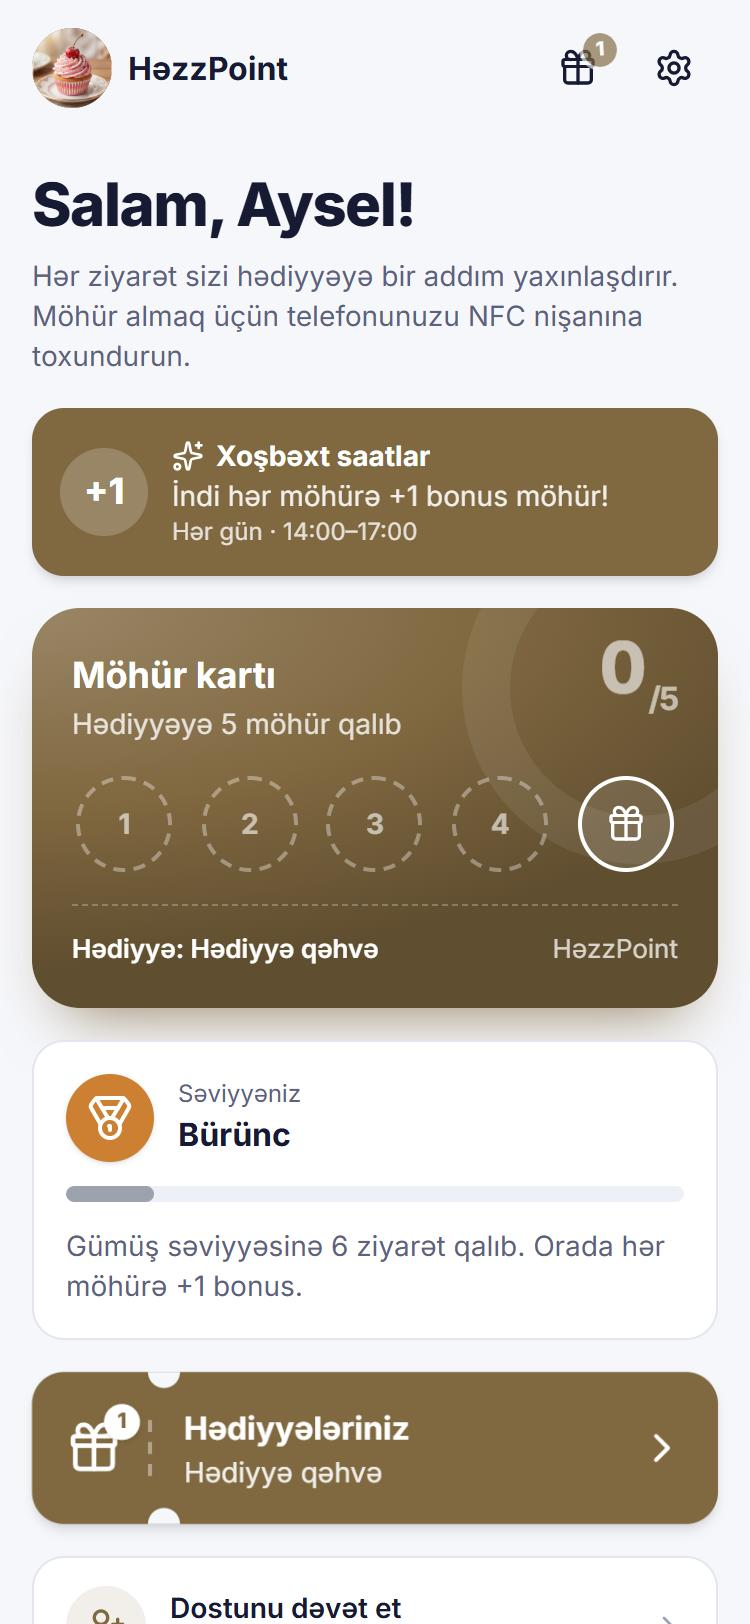
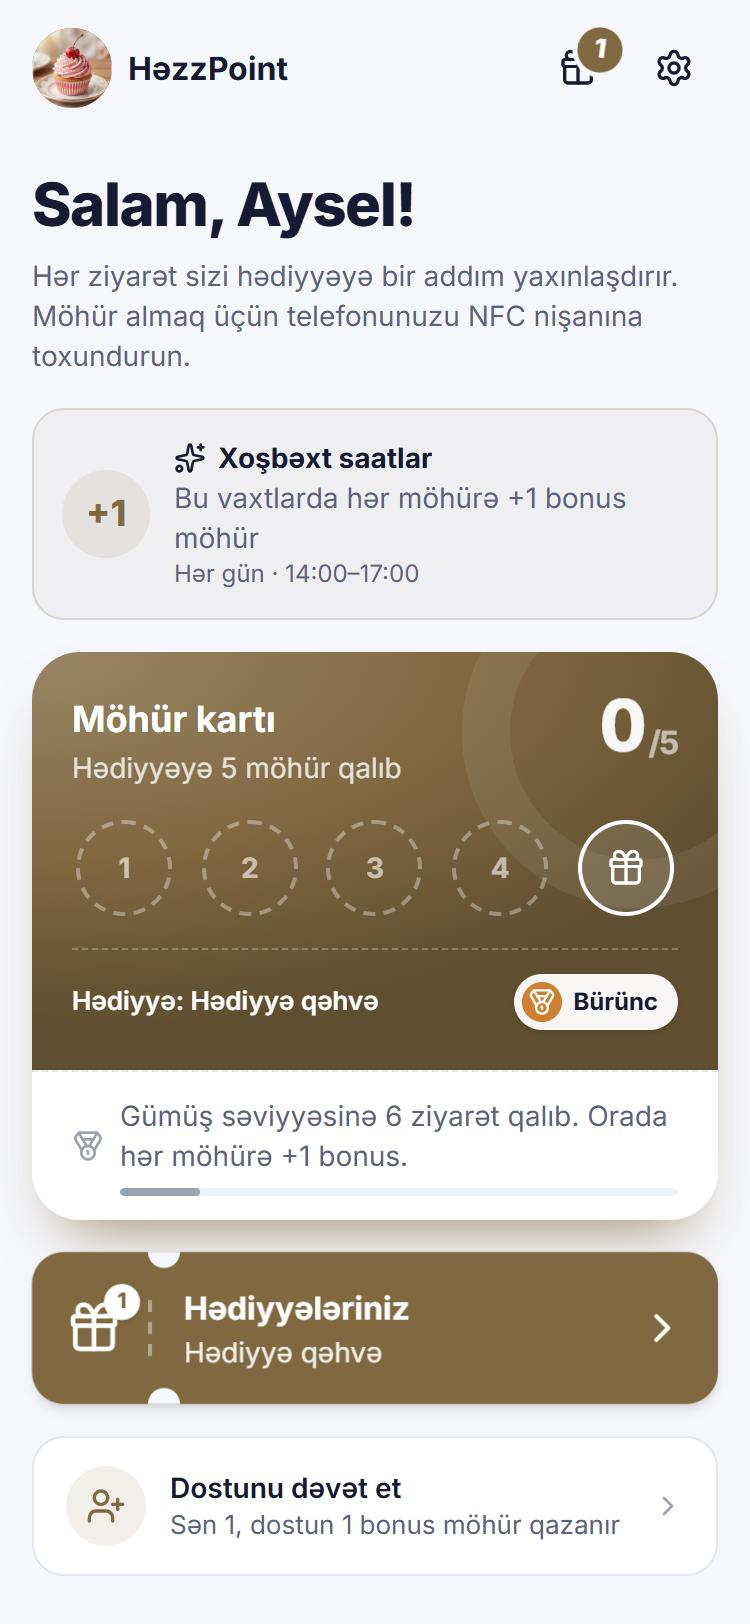
feat(customer): show the tier on the stamp card instead of a separate block
The tier badge now sits on the card's bottom line in the tier colour (in place
of the company name), and progress to the next tier is a note in the card's
strip with a thin progress bar. The standalone tier block is removed.

diff --git a/fe-tapstamp/src/customer/components/TierCard.tsx b/fe-tapstamp/src/customer/components/TierCard.tsx
@@ -1,71 +1,67 @@
-import { useQuery } from '@tanstack/react-query';
 import { Medal } from 'lucide-react';
 import { useTranslation } from 'react-i18next';
 
 import { resolveText } from '@/shared/i18n/localized';
 import { currentLanguage } from '@/shared/i18n/setup';
 
-import { meApi } from '../api/customerApi';
-
-const TIER_KEY = ['my-tier'] as const;
+import { useMyTier } from '../lib/useMyTier';
+import { StampCardNote } from './StampCard';
 
 /**
- * Müştərinin səviyyəsi: rəngli nişan, imtiyaz və növbəti səviyyəyə irəliləyiş zolağı. Şirkətdə səviyyə yoxdursa
- * görünmür.
+ * Kartın üzərindəki səviyyə nişanı (plastik kartdakı "Gold" yazısı kimi): səviyyənin rəngində medal və ad, imtiyaz
+ * varsa yanında. Səviyyə hələ yoxdursa görünmür.
  */
-export function TierCard() {
+export function TierChip() {
   const { t } = useTranslation('profile');
-  const lang = currentLanguage();
-  const tier = useQuery({ queryKey: TIER_KEY, queryFn: meApi.tier });
-  const data = tier.data;
-  if (!data?.enabled) {
+  const tier = useMyTier();
+  const current = tier?.current;
+  if (!current) {
     return null;
   }
-  const current = data.current;
-  const next = data.next;
-  const visits = data.visits ?? 0;
-  const color = current?.color ?? next?.color ?? 'var(--primary)';
-  // Zolaq cari səviyyənin həddindən növbətinin həddinə qədər doldurulur
-  const from = current?.minVisits ?? 0;
-  const to = next?.minVisits ?? from;
-  const progress = next ? Math.min(1, Math.max(0, (visits - from) / Math.max(1, to - from))) : 1;
   return (
-    <section className="flex flex-col gap-3 rounded-2xl border border-border bg-card p-4">
-      <div className="flex items-center gap-3">
-        <span
-          className="grid size-11 shrink-0 place-items-center rounded-full text-white shadow-sm"
-          style={{ background: current ? color : 'var(--muted-foreground)' }}
-        >
-          <Medal className="size-6" aria-hidden="true" />
-        </span>
-        <span className="min-w-0 flex-1">
-          <span className="block text-xs text-muted-foreground">{t('tier.label')}</span>
-          <span className="block truncate text-base font-bold">
-            {current ? resolveText(current.name, lang) : t('tier.none')}
-          </span>
-        </span>
-        {current?.bonusStamps ? (
-          <span className="shrink-0 rounded-full px-2.5 py-1 text-xs font-bold text-white" style={{ background: color }}>
-            {t('tier.perk', { count: current.bonusStamps })}
-          </span>
-        ) : null}
-      </div>
-      <div
-        className="h-2 overflow-hidden rounded-full bg-muted"
-        role="progressbar"
-        aria-valuemin={0}
-        aria-valuemax={100}
-        aria-valuenow={Math.round(progress * 100)}
-        aria-label={t('tier.progress')}
-      >
-        <span className="block h-full rounded-full transition-[width]" style={{ width: `${progress * 100}%`, background: next?.color ?? color }} />
-      </div>
-      <p className="text-sm text-muted-foreground">
-        {next
-          ? t('tier.toNext', { count: data.visitsToNext ?? 0, name: resolveText(next.name, lang) })
-          : t('tier.top')}
-        {next?.bonusStamps ? ` ${t('tier.nextPerk', { count: next.bonusStamps })}` : ''}
-      </p>
-    </section>
+    <span
+      className="inline-flex max-w-full shrink-0 items-center gap-1.5 rounded-full bg-white/95 py-1 pr-2.5 pl-1 text-xs font-bold text-foreground shadow-sm"
+      aria-label={`${t('tier.label')}: ${resolveText(current.name, currentLanguage())}`}
+    >
+      <span className="grid size-5 shrink-0 place-items-center rounded-full text-white" style={{ background: current.color }}>
+        <Medal className="size-3.5" aria-hidden="true" />
+      </span>
+      <span className="truncate">{resolveText(current.name, currentLanguage())}</span>
+      {current.bonusStamps ? <span className="shrink-0 opacity-60">{t('tier.perk', { count: current.bonusStamps })}</span> : null}
+    </span>
   );
 }
+
+/** Kartın alt zolağında: növbəti səviyyəyə qalan ziyarətlər və nazik irəliləyiş xətti. */
+export function TierNote() {
+  const { t } = useTranslation('profile');
+  const tier = useMyTier();
+  if (!tier) {
+    return null;
+  }
+  const { next, visitsToNext, progress } = tier;
+  const color = next?.color ?? tier.current?.color ?? 'var(--primary)';
+  return (
+    <StampCardNote icon={<Medal aria-hidden="true" style={{ color }} />}>
+      <span className="min-w-0 flex-1">
+      <span className="block">
+        {next ? t('tier.toNext', { count: visitsToNext, name: resolveText(next.name, currentLanguage()) }) : t('tier.top')}
+        {next?.bonusStamps ? ` ${t('tier.nextPerk', { count: next.bonusStamps })}` : ''}
+      </span>
+      {next ? (
+        <span
+          className="mt-1.5 block h-1 overflow-hidden rounded-full bg-muted"
+          role="progressbar"
+          aria-valuemin={0}
+          aria-valuemax={100}
+          aria-valuenow={Math.round(progress * 100)}
+          aria-label={t('tier.progress')}
+        >
+          <span className="block h-full rounded-full" style={{ width: `${progress * 100}%`, background: color }} />
+        </span>
+      ) : null}
+      </span>
+    </StampCardNote>
+  );
+}
+

diff --git a/fe-tapstamp/src/customer/pages/HomePage.tsx b/fe-tapstamp/src/customer/pages/HomePage.tsx
@@ -14,7 +14,8 @@ import { useJustSignedIn } from '../auth/justSignedIn';
 import { BonusRulesBanner } from '../components/BonusRulesBanner';
 import { InviteFriendRow } from '../components/InviteFriendCard';
 import { StampCard, StampCardNote } from '../components/StampCard';
-import { TierCard } from '../components/TierCard';
+import { TierChip, TierNote } from '../components/TierCard';
+import { useMyTier } from '../lib/useMyTier';
 import { useSecondsUntil } from '../lib/useSecondsUntil';
 import { InstallRow } from '../pwa/InstallCard';
 import { NotificationsRow } from '../pwa/NotificationsCard';
@@ -44,6 +45,7 @@ function Profile({ me }: { me: Me }) {
   const lang = currentLanguage();
   const card = me.card;
   const rewards = me.availableRewards ?? [];
+  const tier = useMyTier();
   return (
     <>
       <section className="pt-2">
@@ -60,6 +62,7 @@ function Profile({ me }: { me: Me }) {
           pending={card.pendingStamps ?? 0}
           showReturnHint={justSignedIn}
           rewardName={resolveText(card.rewardName, lang)}
+          badge={tier?.current ? <TierChip /> : undefined}
           footer={
             <>
               {card.pendingStamps ? (
@@ -68,11 +71,11 @@ function Profile({ me }: { me: Me }) {
                 </StampCardNote>
               ) : null}
               <NextStamp at={card.nextStampAt} />
+              <TierNote />
             </>
           }
         />
       ) : null}
-      <TierCard />
       {rewards.length > 0 ? (
         // Bilet formalı blok: solda hədiyyə ikonu, qırıq xətt və iki yarımdairə kəsik, sağda hazır hədiyyələr
         <Link

diff --git a/fe-tapstamp/src/customer/components/StampCard.tsx b/fe-tapstamp/src/customer/components/StampCard.tsx
@@ -23,6 +23,8 @@ interface StampCardProps {
   completed?: boolean;
   /** Kartın alt zolaqları (geri sayım, təsdiq gözləyən möhürlər). */
   footer?: ReactNode;
+  /** Kartın aşağı xəttində, şirkət adının yerində (məs. səviyyə nişanı). */
+  badge?: ReactNode;
 }
 
 /**
@@ -39,6 +41,7 @@ export function StampCard({
   completed,
   showReturnHint = false,
   footer,
+  badge,
 }: StampCardProps) {
   const { t } = useTranslation('profile');
   const shown = completed ? stampsRequired : Math.min(current, stampsRequired);
@@ -97,10 +100,10 @@ export function StampCard({
             );
           })}
         </ol>
-        {rewardName || companyName ? (
+        {rewardName || companyName || badge ? (
           <p className="relative mt-4 flex items-center justify-between gap-3 border-t border-dashed border-white/25 pt-3 text-[13px]">
             <span className="min-w-0 font-semibold">{rewardName ? t('card.reward', { name: rewardName }) : null}</span>
-            <span className="shrink-0 truncate opacity-75">{companyName}</span>
+            {badge ?? <span className="shrink-0 truncate opacity-75">{companyName}</span>}
           </p>
         ) : null}
       </div>

diff --git a/fe-tapstamp/src/customer/lib/useMyTier.ts b/fe-tapstamp/src/customer/lib/useMyTier.ts
@@ -1,0 +1,20 @@
+import { useQuery } from '@tanstack/react-query';
+
+import { meApi } from '../api/customerApi';
+
+/** Müştərinin səviyyəsi; şirkətdə səviyyə yoxdursa və ya söndürülübsə {@code undefined}. */
+export function useMyTier() {
+  const tier = useQuery({ queryKey: ['my-tier'], queryFn: meApi.tier });
+  const data = tier.data;
+  if (!data?.enabled) {
+    return undefined;
+  }
+  const current = data.current;
+  const next = data.next;
+  const visits = data.visits ?? 0;
+  // Cari səviyyənin həddindən növbətinin həddinə qədər irəliləyiş (0–1)
+  const from = current?.minVisits ?? 0;
+  const to = next?.minVisits ?? from;
+  const progress = next ? Math.min(1, Math.max(0, (visits - from) / Math.max(1, to - from))) : 1;
+  return { current, next, visitsToNext: data.visitsToNext ?? 0, progress };
+}

diff --git a/docs/screenshots/README.md b/docs/screenshots/README.md
@@ -81,4 +81,4 @@ Skript: `node scripts/screenshots/gift-card-redemption.cjs` (sahib vaxt limitini
 | `phase11-02-bonus-banner-customer.jpg` | Müştəri kartının üstündə banner: "İndi hər möhürə +1 bonus möhür!" |
 | `phase11-03-bonus-deliveries.jpg` | Bonus kampaniyası: başlanğıc bildirişini alanlar — ad, maskalı telefon, "Çatdırıldı / Çatdırılmadı", süzgəc və səhifələmə |
 | `phase11-04-tiers-admin.jpg` | Səviyyələr (admin): proqramın açarı; Bürünc, Gümüş, Qızıl — hədd, imtiyaz və hər səviyyədəki müştərilərin sayı |
-| `phase11-05-tier-customer.jpg` | Müştəri kartının altında səviyyə: nişan və növbəti səviyyəyə irəliləyiş |
+| `phase11-05-tier-customer.jpg` | Səviyyə möhür kartının içində: nişan kartın aşağı xəttində, növbəti səviyyəyə irəliləyiş kartın alt zolağında |
